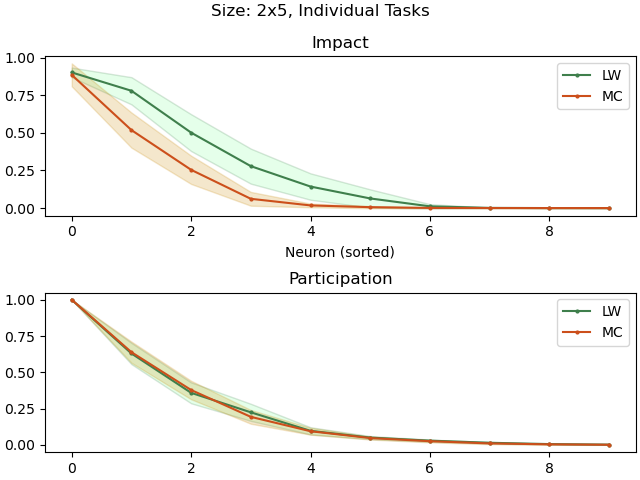
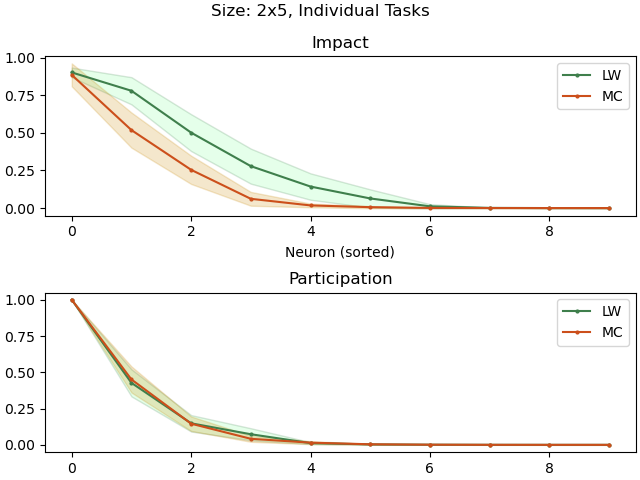
new figs

Changed region(s): [[0.0938, 0.625, 0.9062, 0.9375]]

diff --git a/Eduardo/newviz.py b/Eduardo/newviz.py
@@ -76,25 +76,28 @@ axs[0].set_xlabel("Neuron (sorted)")
 #LW
 
 v5x = np.zeros((reps,nn5))
+nI = 4
+nH = 10
 
 for i in range(reps):
     nn = np.load("Eduardo/Data/state_LW5_"+str(i)+".npy")
-    nn = nn.T[4:-1]
-    nn = np.mean(np.abs(np.diff(nn)),axis=1)
+    #print(len(nn))
+    #variance
+    nn = np.var(nn[:,nI:nI+nH],axis=0)
     nn = np.sort(nn)[::-1]
     max = np.max(nn)
     v5x[i] = nn/max
-
+    #print('lw',v5x[i])
 
 mcv5x = np.zeros((reps,nn5))
 
 for i in range(reps):
     nn = np.load("Eduardo/Data/state_MC5_"+str(i)+".npy")
-    nn = nn.T[4:-1]
-    nn = np.mean(np.abs(np.diff(nn)),axis=1)
+    nn = np.var(nn[:,nI:nI+nH],axis=0)
     nn = np.sort(nn)[::-1]
     max = np.max(nn)
     mcv5x[i] = nn/max
+    #print('mc',mcv5x[i])
 
 
 err5 = []
@@ -194,22 +197,47 @@ v5x = np.zeros((reps,nn5))
 
 for i in range(reps):
     nn = np.load("Eduardo/Data3/state_MCLW5_LW_"+str(i)+".npy")
-    nn = nn.T[4:-1]
-    nn = np.mean(np.abs(np.diff(nn)),axis=1)
+    nn = np.var(nn[:,nI:nI+nH],axis=0)
     nn = np.sort(nn)[::-1]
     max = np.max(nn)
     v5x[i] = nn/max
+    #nn = nn.T[4:-1]
+    #nn = np.mean(np.abs(np.diff(nn)),axis=1)
+    #nn = np.sort(nn)[::-1]
+    #max = np.max(nn)
+    #v5x[i] = nn/max
 
 
 mcv5x = np.zeros((reps,nn5))
 
 for i in range(reps):
     nn = np.load("Eduardo/Data3/state_MCLW5_MC_"+str(i)+".npy")
-    nn = nn.T[4:-1]
-    nn = np.mean(np.abs(np.diff(nn)),axis=1)
+    nn = np.var(nn[:,nI:nI+nH],axis=0)
     nn = np.sort(nn)[::-1]
     max = np.max(nn)
     mcv5x[i] = nn/max
+    #nn = nn.T[4:-1]
+    #nn = np.mean(np.abs(np.diff(nn)),axis=1)
+    #nn = np.sort(nn)[::-1]
+    #max = np.max(nn)
+    #mcv5x[i] = nn/max
+
+
+comb = np.zeros((reps,nn5))
+
+for i in range(reps):
+    mc = np.load("Eduardo/Data3/state_MCLW5_MC_"+str(i)+".npy")
+    lw = np.load("Eduardo/Data3/state_MCLW5_LW_"+str(i)+".npy")
+    nn = np.concatenate((mc, lw), axis=0)
+    #print(len(mc))
+
+
+    nn = np.var(nn[:,nI:nI+nH],axis=0)
+    nn = np.sort(nn)[::-1]
+    max = np.max(nn)
+    comb[i] = nn/max
+    
+
 
 
 err5 = []
@@ -222,6 +250,13 @@ mcerr5 = []
 for i in mcv5x.T:
     mcerr5.append(np.std(i))
 
+comberr = []
+for i in comb.T:
+    comberr.append(np.std(i))
+
+
+print('single',np.mean(v5x,axis=0))
+print('double',np.mean(comb,axis=0))
 
 axs[1].plot(np.mean(v5x,axis=0),'o-',markersize=2,label="MCLW_LW",color='#3F7F4C')
 axs[1].fill_between(x5, np.mean(v5x,axis=0)-(np.divide(err5,math.sqrt(10))), np.mean(v5x,axis=0)+(np.divide(err5,math.sqrt(10))),alpha=0.2, edgecolor='#3F7F4C', facecolor='#7EFF99')
@@ -229,8 +264,14 @@ axs[1].fill_between(x5, np.mean(v5x,axis=0)-(np.divide(err5,math.sqrt(10))), np.
 axs[1].plot(np.mean(mcv5x,axis=0),'o-',markersize=2,label="MCLW_MC",color='#CC4F1B')
 axs[1].fill_between(x5, np.mean(mcv5x,axis=0)-(np.divide(mcerr5,math.sqrt(10))), np.mean(mcv5x,axis=0)+(np.divide(mcerr5,math.sqrt(10))),alpha=0.2, edgecolor='#c88700', facecolor='#c88700')
 
+axs[1].plot(np.mean(comb,axis=0),'o-',markersize=2,label="MCLW",color='#507ad0')
+axs[1].fill_between(x5, np.mean(comb,axis=0)-(np.divide(comberr,math.sqrt(10))), np.mean(comb,axis=0)+(np.divide(comberr,math.sqrt(10))),alpha=0.2, edgecolor='#507ad0', facecolor='#507ad0')
+
 axs[1].set_title("Participation")
 axs[1].legend()
+
+
+
 
 fig.suptitle("Size: 2x5, Pairwise Multifunctional: MCLW")
 plt.savefig("Eduardo/PairwiseMulti_2x5.png")
@@ -258,7 +299,7 @@ for i in range(reps):
 
     #print('before',len(f1))
     for p, (x,y) in enumerate(zip(f1,f2)):
-        if x < 0.01 and y < 0.01:
+        if x < 0.75 and y < 0.75:
             #print(x)
             #indx = np.where(f1 == x)
             #print(indx)
@@ -302,7 +343,7 @@ for i in range(reps):
     f2 = nnmc/maxmc
 
     for p, (x,y) in enumerate(zip(f1,f2)):
-        if x < 0.01 and y < 0.01:
+        if x < 0.75 and y < 0.75:
             f1[p] = 200
             f2[p] = 100
             #print(x)

diff --git a/Eduardo/3d_distance.py b/Eduardo/3d_distance.py
@@ -1,0 +1,125 @@
+from mpl_toolkits.mplot3d import Axes3D
+import matplotlib.pyplot as plt
+import numpy as np
+import matplotlib.colors as mcolors
+
+cmap = mcolors.LinearSegmentedColormap.from_list("", ["yellow", "orange", "red"])
+
+thresholds = [0.01,0.1,0.2,0.3,0.4,0.5,0.6,0.7,0.8,0.9,0.99]
+#thresholds.reverse()
+
+reps = 100
+nn5 = 2*5
+impact5 = np.zeros((reps,nn5))
+
+newimpact = []
+
+nI = 4
+nH = 10
+fig = plt.figure()
+ax = fig.add_subplot(111, projection='3d')
+nbins = 50
+for z in thresholds:
+    for i in range(reps):
+        #lesions
+        #f1 = 1 - (np.load("Eduardo/Data3/lesions_MCLW5_LW_40_"+str(i)+".npy"))
+        #f2 = 1 - (np.load("Eduardo/Data3/lesions_MCLW5_MC_40_"+str(i)+".npy"))
+
+        #variance
+        nn = np.load("Eduardo/Data3/state_MCLW5_LW_"+str(i)+".npy")
+        nn = np.var(nn[:,nI:nI+nH],axis=0)
+        max = np.max(nn)
+        f1 = nn/max
+
+        nn = np.load("Eduardo/Data3/state_MCLW5_MC_"+str(i)+".npy")
+        nn = np.var(nn[:,nI:nI+nH],axis=0)
+        max = np.max(nn)
+        f2 = nn/max
+
+        #print('before',len(f1))
+        for p, (x,y) in enumerate(zip(f1,f2)):
+            if x < z and y < z:
+                #print(x)
+                #indx = np.where(f1 == x)
+                #print(indx)
+                f1[p] = 200
+                f2[p] = 100
+
+        impact5[i] = (f1-f2)
+        imp = impact5[i]
+        imp = imp[imp != 100]
+        newimpact.append(imp)
+
+    flat_list = [item for sublist in newimpact for item in sublist]
+
+
+    #ys = np.random.normal(loc=10, scale=10, size=2000)
+
+    hist, bins = np.histogram(flat_list, bins=nbins)
+    xs = (bins[:-1] + bins[1:])/2
+
+    ax.bar(xs, hist, zs=z, zdir='y', color=cmap(hist/hist.max()),ec=cmap(hist/hist.max()), alpha=0.8)
+
+ax.set_xlabel('Distance')
+ax.set_ylabel('Threshold')
+ax.set_zlabel('# of neurons')
+ax.set_title("Distance of Variance: MCLW")
+plt.show()
+
+
+
+
+
+
+
+"""
+
+import numpy as np
+import pandas as pd
+import plotly.graph_objects as go
+
+def triangulate_histogtam(x, y, z):
+
+    if len(x)  != len(y) != len(z) :
+        raise ValueError("The  lists x, y, z, must have the same length")
+    n = len(x)
+    if n % 2 :
+        raise ValueError("The length of lists x, y, z must be an even number") 
+    pts3d = np.vstack((x, y, z)).T
+    pts3dp = np.array([[x[2*k+1], y[2*k+1], 0] for k in range(1, n//2-1)])
+    pts3d = np.vstack((pts3d, pts3dp))
+    #triangulate the histogram bars:
+    tri = [[0,1,2], [0,2,n]]
+    for k, i  in zip(list(range(n, n-3+n//2)), list(range(3, n-4, 2))):
+        tri.extend([[k, i, i+1], [k, i+1, k+1]])
+    tri.extend([[n-3+n//2, n-3, n-2], [n-3+n//2, n-2, n-1]])      
+    return pts3d, np.array(tri)
+
+# data
+np.random.seed(123)
+df = pd.DataFrame(np.random.normal(50, 5, size=(300, 4)), columns=list('ABCD'))
+
+# plotly setup
+fig = go.Figure()
+
+# data binning and traces
+bins = 10
+
+bar_color = ['#e763fa', '#ab63fa', '#636efa', '#00cc96']
+for m, col in enumerate(df.columns):
+    a0=np.histogram(df[col], bins=bins, density=False)[0].tolist()
+    a0=np.repeat(a0,2).tolist()
+    a0.insert(0,0)
+    a0.pop()
+    a0[-1]=0
+    a1=np.histogram(df[col], bins=bins-1, density=False)[1].tolist()
+    a1=np.repeat(a1,2)
+
+    verts, tri = triangulate_histogtam([m]*len(a0), a1, a0)
+    x, y, z = verts.T
+    I, J, K = tri.T
+    fig.add_traces(go.Mesh3d(x=x, y=y, z=z, i=I, j=J, k=K, color=bar_color[m], opacity=0.7))
+
+fig.update_layout(width=700, height=700, scene_camera_eye_z=0.8)
+
+"""

diff --git a/Eduardo/correlation_viz.py b/Eduardo/correlation_viz.py
@@ -11,23 +11,39 @@ nn5 = 2*5
 b5xlw = np.zeros((reps,nn5))
 
 for i in range(reps):
-    f = 1 - (np.load("Eduardo/Data3/lesions_MCLW5_LW_40_"+str(i)+".npy"))
+    f = 1 - (np.load("Eduardo/Data/lesions_MC5_40_"+str(i)+".npy"))
+    #f = 1 - (np.load("Eduardo/Data3/lesions_MCLW5_MC_40_"+str(i)+".npy"))
     b5xlw[i] = f
 
 
 v5x = np.zeros((reps,nn5))
+nI = 4
+nH = 10
 
 for i in range(reps):
-    nn = np.load("Eduardo/Data3/state_MCLW5_LW_"+str(i)+".npy")
-    nn = nn.T[4:-1]
-    nn = np.mean(np.abs(np.diff(nn)),axis=1)
-    nn = np.sort(nn)[::-1]
-    max = np.max(nn)
-    v5x[i] = nn/max
+    nn = np.load("Eduardo/Data/state_MC5_"+str(i)+".npy")
+    print(nn)
 
-"""
-plt.plot(b5xlw[0],v5x[0],'o-')
+    #nn = np.load("Eduardo/Data3/state_MCLW5_MC_"+str(i)+".npy")
+    #print(nn.shape)
+    
+    #state is an array of total trials*time, 15
+    #total trials = 
+    nn = np.var(nn[:,nI:nI+nH],axis=0)
+    
+    #print(nn)
+    #nn = np.sort(nn)[::-1]
+    #max = np.max(nn)
+    v5x[i] = nn
+
+
+
+plt.plot(b5xlw,v5x,'o')
+plt.xlabel("Lesions")
+plt.ylabel("Variance")
+plt.title("LW")
 plt.show()
+
 """
 
 coeffs = []
@@ -38,29 +54,29 @@ for (x,y) in zip(b5xlw,v5x):
     coeffs.append(r[0, 1])
 
 
+
 plt.hist(coeffs,15,density=False,alpha=0.5)
-plt.title("MCLW_LW correlation coeff")
+plt.title("MCLW_MC correlation coeff")
 plt.xlabel("Pearson Correlation Coefficients")
 plt.ylabel("Number of networks")
 plt.show()
 
 
 
-"""
 for (x,y) in zip(b5xlw,v5x):
     plt.plot(x,y,'o')
 plt.xlabel('Impact')
 plt.ylabel('Participation')
 plt.title('MC-individual')
 plt.show()
-"""
 
 
 
-"""
+
+
 meanx = []
 meany = []
-for (x,y) in zip(b5xlw,b5xmc):
+for (x,y) in zip(b5xlw,v5x):
     meanx.append(np.mean(x))
     meany.append(np.mean(y))
 

diff --git a/Eduardo/analysis_LW.py b/Eduardo/analysis_LW.py
@@ -147,7 +147,7 @@ def find_all_lesions(dir,ind,steps):
     np.save(dir+"/stats_"+condition+"_LW_"+str(ind)+".npy",count)
 
 
-def find_all_var(dir,ind,steps):
+def find_all_var(dir,ind):
     nI = 4
     nH = 10
     v = np.zeros((1,10))
@@ -173,7 +173,7 @@ def find_all_var(dir,ind,steps):
     norm_var = norm_var.T
     print(norm_var)
 
-    np.save(dir+"/NormVar_"+condition+"_LW_"+str(steps)+"_"+str(ind)+".npy",norm_var)
+    np.save(dir+"/NormVar_"+"LW5_40_"+str(ind)+".npy",norm_var)
 
 
 bf = np.load(dir+"/best_history"+condition+"_"+str(id)+".npy")
@@ -185,4 +185,4 @@ if bf[-1] > 0.0:
     np.save(dir+"/perfmap_"+condition+"_LW_"+str(id)+".npy",m1)
     np.save(dir+"/state_"+condition+"_LW_"+str(id)+".npy",ns1)
     #find_all_lesions(dir,id,steps)
-    find_all_var(dir,id,steps)
+    find_all_var(dir,id)
